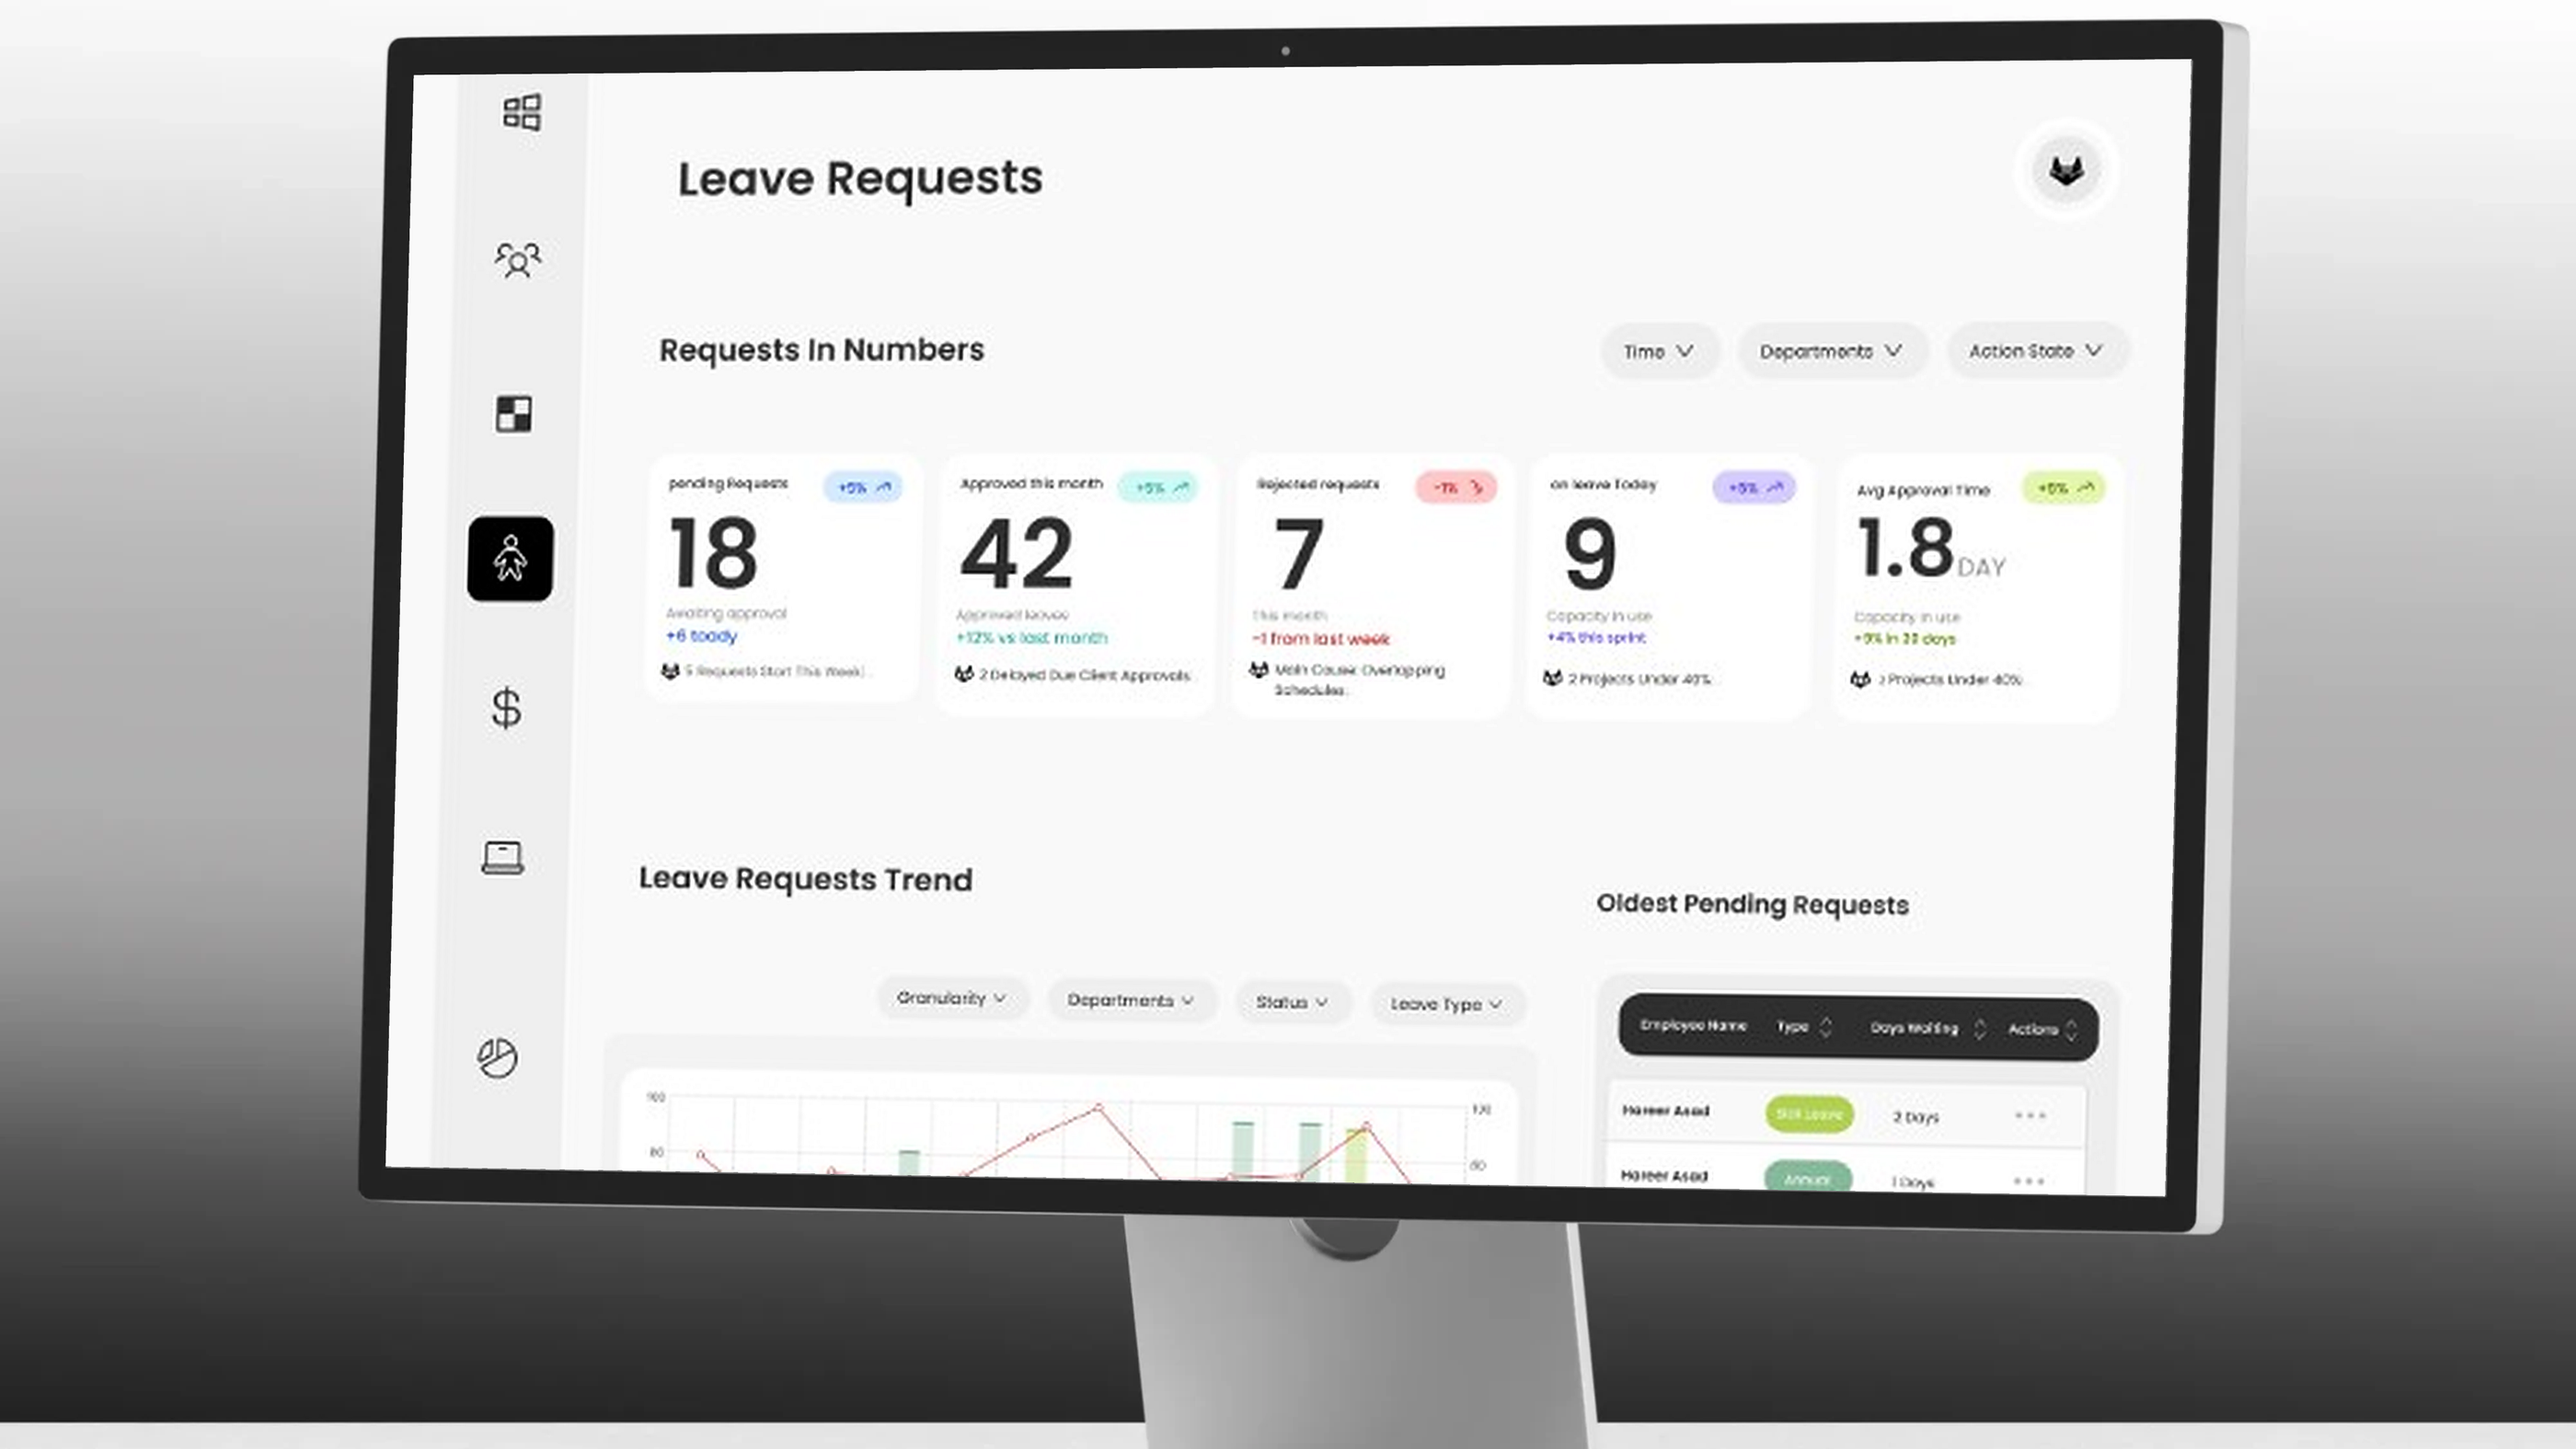
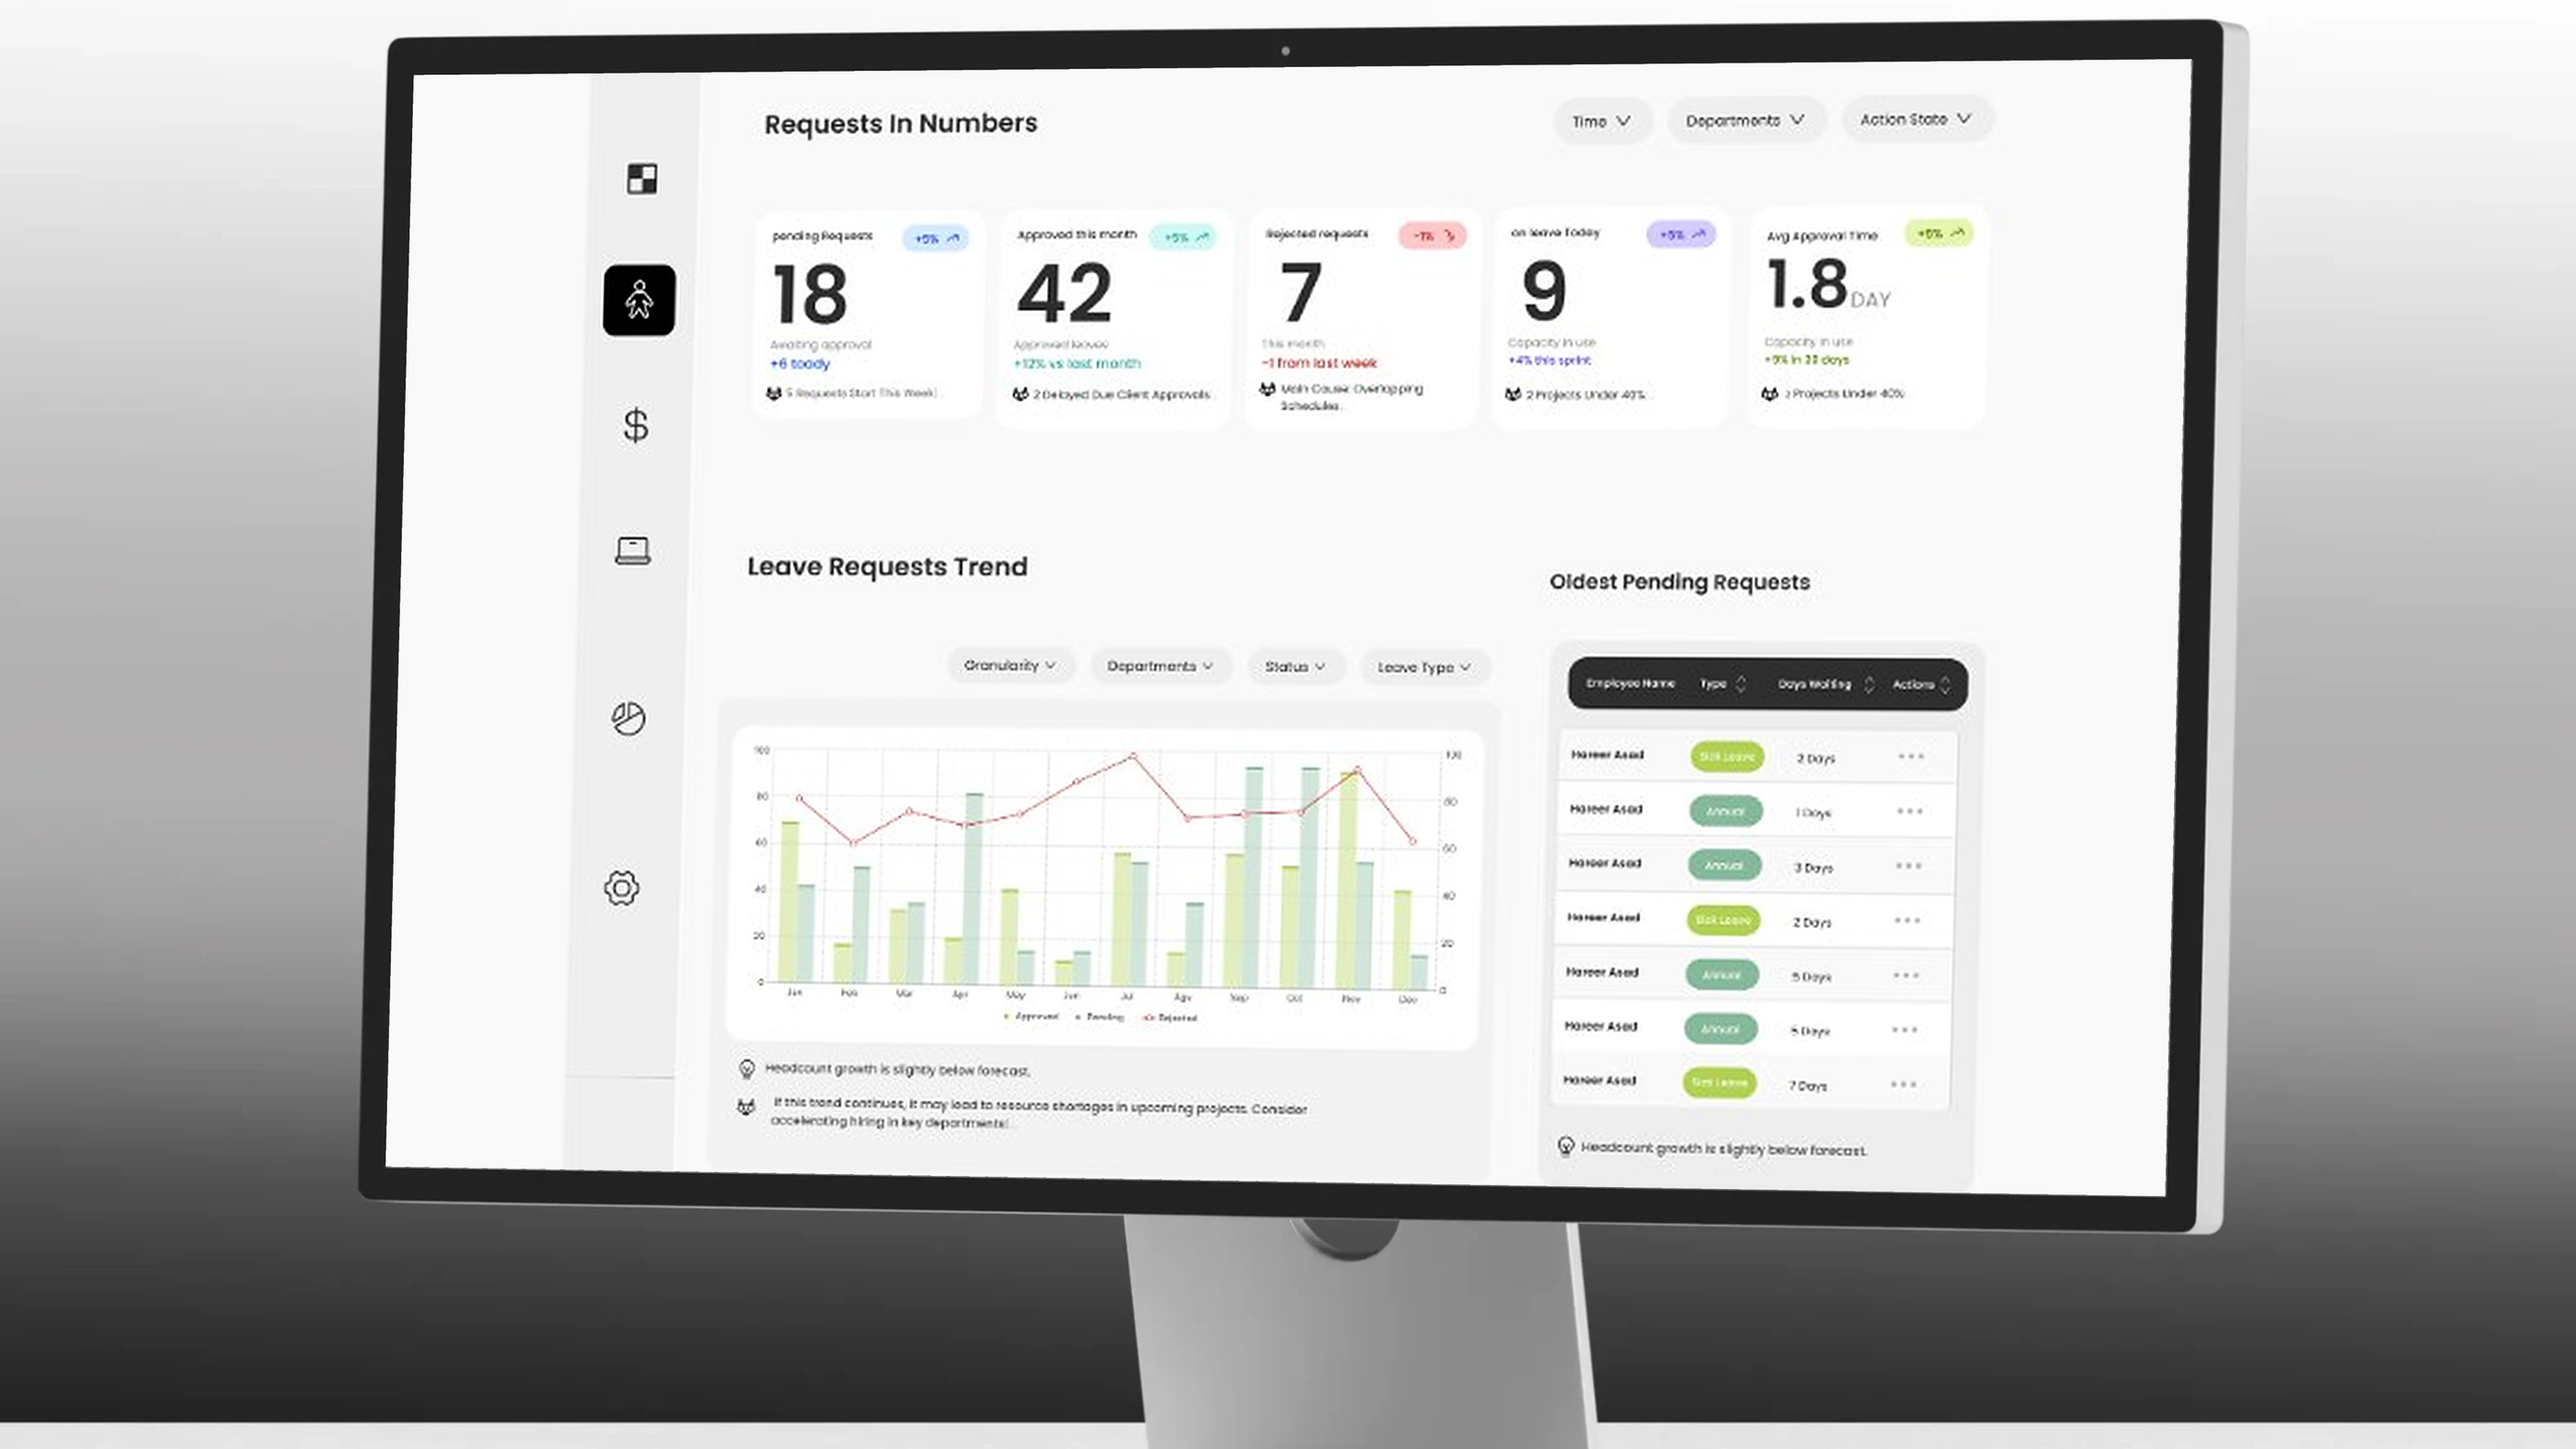
Leave Requests monitor: KPIs and first charts together, small space above
Claude-Session: https://claude.ai/code/session_01FdYAnoP1AuAPuCnLWf7gdc

diff --git a/behance-cover/mockups/set29.py b/behance-cover/mockups/set29.py
@@ -12,8 +12,11 @@ def coeffs(dst, pts):
 base = Image.open(I + '228.webp').convert('RGB')
 sw = (math.dist(Q[0], Q[1]) + math.dist(Q[3], Q[2])) / 2; sh = (math.dist(Q[0], Q[3]) + math.dist(Q[1], Q[2])) / 2; r = sw / sh
 page = Image.open(I + '229.jpg').convert('RGB')
-TOP = 100                                   # just above the "Leave Requests" title
-band = page.crop((0, TOP, page.width, TOP + round(page.width / r)))
+# a little space above "Requests In Numbers", down to the end of the first charts' notes; the band is
+# taller than the screen ratio, so it is centred on the page colour (no stretching)
+TOP, BOT = 178, 655
+h = BOT - TOP; w = round(h * r); bg = page.getpixel((page.width // 2, page.height - 5))
+band = Image.new('RGB', (w, h), bg); band.paste(page.crop((0, TOP, page.width, BOT)), ((w - page.width) // 2, 0))
 src = band.resize((round(2600 * r), 2600), Image.LANCZOS)
 src = src.point(lambda v: round(255 * (v / 255) ** 1.12)).filter(ImageFilter.UnsharpMask(radius=2.4, percent=90, threshold=2))
 F = 2; W, H = 4000, 3000; SS = 2
@@ -26,4 +29,4 @@ out = Image.composite(warped, sc, m)
 out.save('uw-allia-leave-x4-4000.png', optimize=True)
 out.resize((2000, 1500), Image.LANCZOS).save('uw-allia-leave-2000.png', optimize=True); out.resize((1000, 750), Image.LANCZOS).save('uw-allia-leave-1000.png', optimize=True)
 out.crop((0, 200, 4000, 2450)).resize((2800, 1576), Image.LANCZOS).save('ab-allia-leave-2800.png')
-print('ratio', round(r, 3), 'band rows', TOP, TOP + round(page.width / r))
+print('ratio', round(r, 3), w, h)
